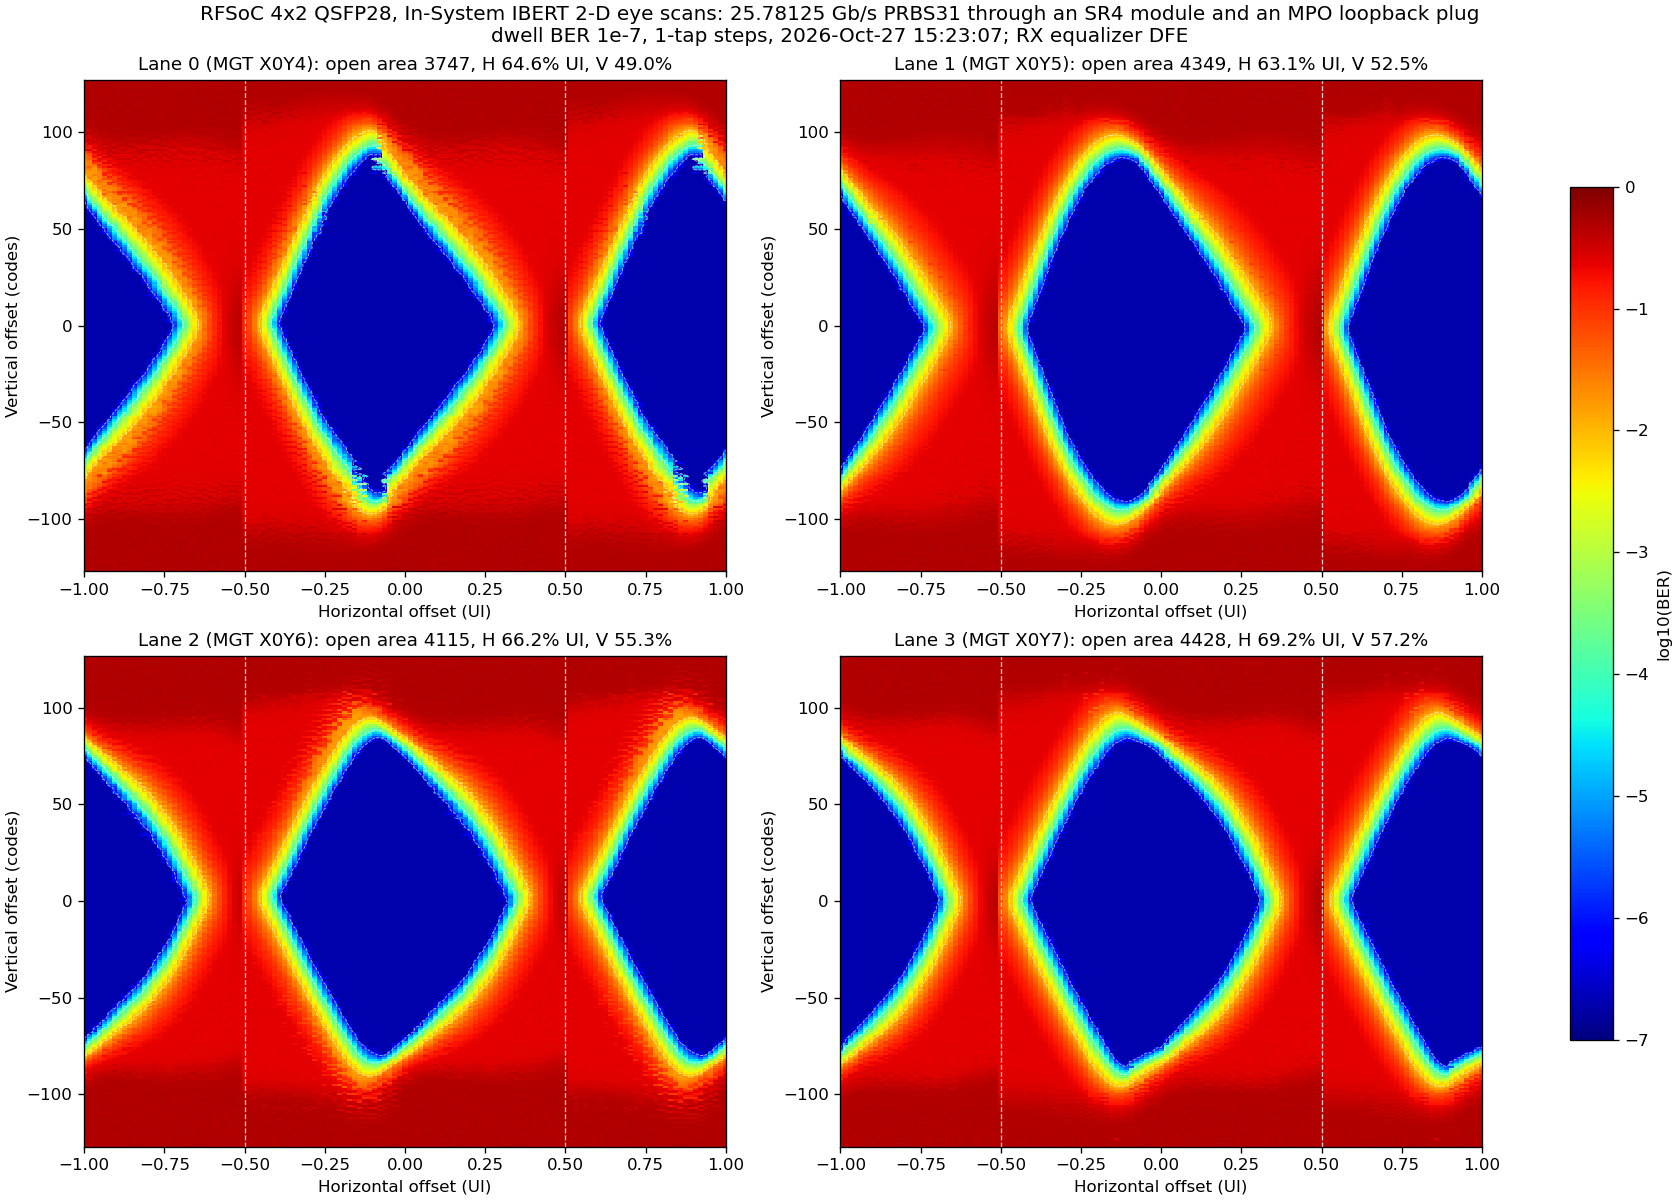
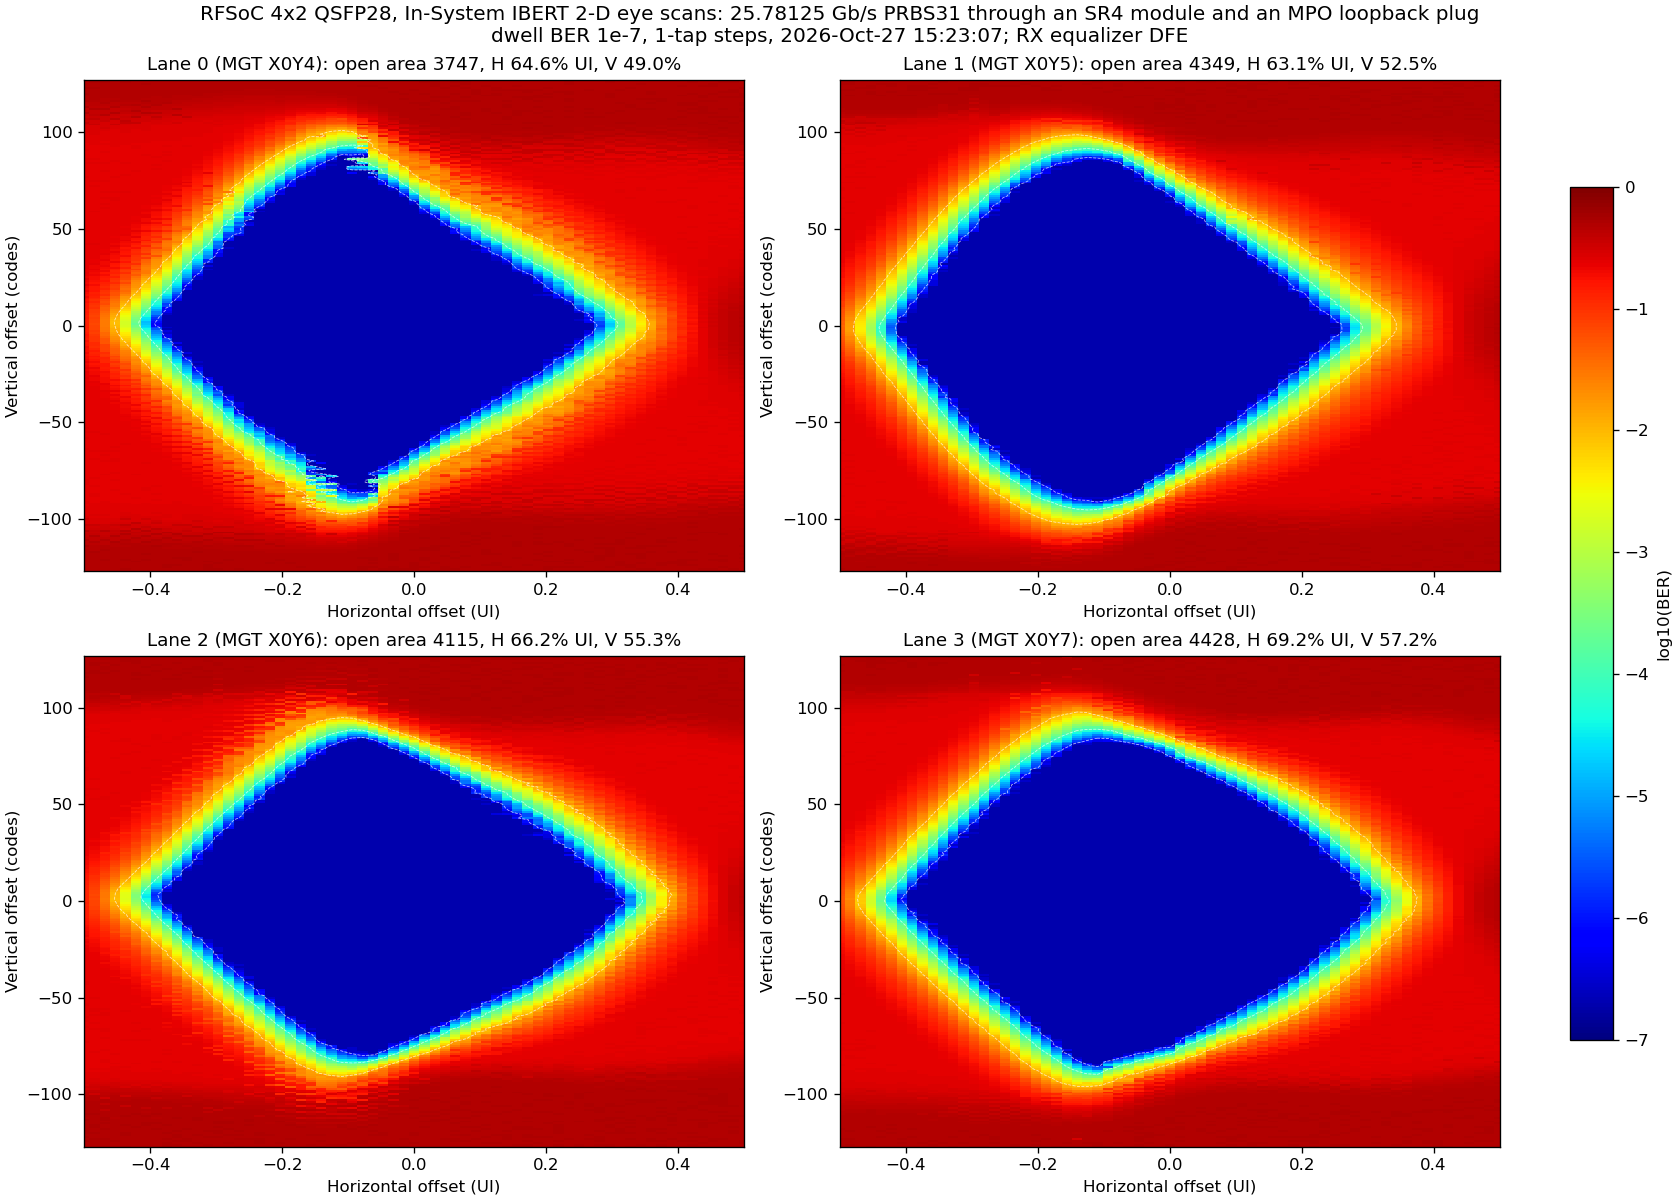
plot_eye.py: one eye per lane, the scanned UI only (-0.5 .. 0.5 UI holds the whole eye in DFE)

diff --git a/scripts/plot_eye.py b/scripts/plot_eye.py
@@ -1,7 +1,5 @@
 # 2-D eye scans of the four lanes (out/eye_lane<l>.csv from tests/ibert_test.tcl ... eye) as one picture.
 #   python3 scripts/plot_eye.py [csv directory (default out)] [picture (default <csv directory>/eye_scans.png)] [title note]
-# The scan covers one UI (-0.5 .. 0.5 UI around the eye centre); it is drawn from -1 to 1 UI, repeated once on each side
-# (the dashed lines mark the scanned UI), so that the whole eye and both crossings are seen.
 import os, sys, numpy as np, matplotlib
 matplotlib.use("Agg")
 import matplotlib.pyplot as plt
@@ -27,12 +25,9 @@ for l, ax in enumerate(axs.flat):
     meta, h, v, ber = load(os.path.join(src, f"eye_lane{l}.csv"))
     ui = h / (2.0 * h.max())                              # -0.5 .. 0.5 UI
     z = np.log10(np.clip(ber, 1e-12, 1))
-    x = np.concatenate([ui[:-1] - 1, ui, ui[1:] + 1])     # -1.5 .. 1.5 UI, the edge columns once
-    zz = np.concatenate([z[:, :-1], z, z[:, 1:]], axis=1)
-    im = ax.pcolormesh(x, v, zz, cmap="jet", vmin=-7, vmax=0, shading="nearest")
-    ax.contour(x, v, zz, levels=[-6, -4, -2], colors="w", linewidths=0.5, alpha=0.7)
-    for b in (-0.5, 0.5): ax.axvline(b, color="w", ls="--", lw=0.8, alpha=0.8)
-    ax.set_xlim(-1, 1); ax.set_ylim(v.min(), v.max())
+    im = ax.pcolormesh(ui, v, z, cmap="jet", vmin=-7, vmax=0, shading="nearest")
+    ax.contour(ui, v, z, levels=[-6, -4, -2], colors="w", linewidths=0.5, alpha=0.7)
+    ax.set_xlim(-0.5, 0.5); ax.set_ylim(v.min(), v.max())
     ax.set_title(f"Lane {l} (MGT X0Y{4 + l}): open area {meta['Open Area']}, "
                  f"H {float(meta['Horizontal Percentage']):.1f}% UI, V {float(meta['Vertical Percentage']):.1f}%", fontsize=11)
     ax.set_xlabel("Horizontal offset (UI)"); ax.set_ylabel("Vertical offset (codes)")

diff --git a/README.md b/README.md
@@ -34,7 +34,7 @@ Intel SPTSBP2CLCKV (100GBASE-SR4) with an MPO loopback plug, prebuilt bitstream,
 | Optical loopback, PRBS31, 60 s | 4 / 4 | 1.550e12 | 0 | < 6.4e-13 |
 | GT near-end PMA loopback, PRBS31, 10 s | 4 / 4 | 2.614e11 | 0 | < 3.8e-12 |
 
-2-D eye scans of the four receivers (optical loopback, PRBS31, 1-tap steps, dwell BER 1e-7), the receivers switched to DFE in the hardware manager (`LOGIC.RXLPMEN_OVRD` 1, `LOGIC.RXLPMEN_OUT` 0, then an RX reset): horizontal opening 64.6 / 63.1 / 66.2 / 69.2 % UI, vertical 49.0 / 52.5 / 55.3 / 57.2 %, open area 3747 / 4349 / 4115 / 4428. (With the default LPM the module's signal exceeds the scan's vertical range: the eye is open over the whole range, horizontally 66 to 68 % UI, and its shape is not seen.) Data in `docs/eye_lane<l>.csv`; the picture from `scripts/plot_eye.py` shows -1 .. 1 UI, the scanned UI between the dashed lines repeated on each side:
+2-D eye scans of the four receivers (optical loopback, PRBS31, 1-tap steps, dwell BER 1e-7), the receivers switched to DFE in the hardware manager (`LOGIC.RXLPMEN_OVRD` 1, `LOGIC.RXLPMEN_OUT` 0, then an RX reset): horizontal opening 64.6 / 63.1 / 66.2 / 69.2 % UI, vertical 49.0 / 52.5 / 55.3 / 57.2 %, open area 3747 / 4349 / 4115 / 4428. (With the default LPM the module's signal exceeds the scan's vertical range: the eye is open over the whole range, horizontally 66 to 68 % UI, and its shape is not seen.) Data in `docs/eye_lane<l>.csv`, picture from `scripts/plot_eye.py`:
 
 ![eye scans](docs/eye_scans.png)
 
@@ -130,7 +130,7 @@ Intel SPTSBP2CLCKV（100GBASE-SR4）加 MPO 回环头，prebuilt 位流，Vivado
 | 光回环，PRBS31，60 秒 | 4 / 4 | 1.550e12 | 0 | < 6.4e-13 |
 | GT 近端 PMA 回环，PRBS31，10 秒 | 4 / 4 | 2.614e11 | 0 | < 3.8e-12 |
 
-四个接收端的二维眼图（光回环，PRBS31，1 tap 步进，dwell BER 1e-7），接收端在硬件管理器里切到 DFE（`LOGIC.RXLPMEN_OVRD` 1、`LOGIC.RXLPMEN_OUT` 0，再复位 RX）：水平张开 64.6 / 63.1 / 66.2 / 69.2 % UI，垂直 49.0 / 52.5 / 55.3 / 57.2 %，open area 3747 / 4349 / 4115 / 4428。（默认的 LPM 下模块的信号幅度超出扫描的垂直范围：整个范围内都张开，水平 66～68 % UI，看不出眼的形状。）数据在 `docs/eye_lane<l>.csv`；图由 `scripts/plot_eye.py` 生成，画 -1 .. 1 UI，虚线之间是实测的 1 UI，两侧为其周期延拓：
+四个接收端的二维眼图（光回环，PRBS31，1 tap 步进，dwell BER 1e-7），接收端在硬件管理器里切到 DFE（`LOGIC.RXLPMEN_OVRD` 1、`LOGIC.RXLPMEN_OUT` 0，再复位 RX）：水平张开 64.6 / 63.1 / 66.2 / 69.2 % UI，垂直 49.0 / 52.5 / 55.3 / 57.2 %，open area 3747 / 4349 / 4115 / 4428。（默认的 LPM 下模块的信号幅度超出扫描的垂直范围：整个范围内都张开，水平 66～68 % UI，看不出眼的形状。）数据在 `docs/eye_lane<l>.csv`，图由 `scripts/plot_eye.py` 生成：
 
 ![眼图](docs/eye_scans.png)
 
